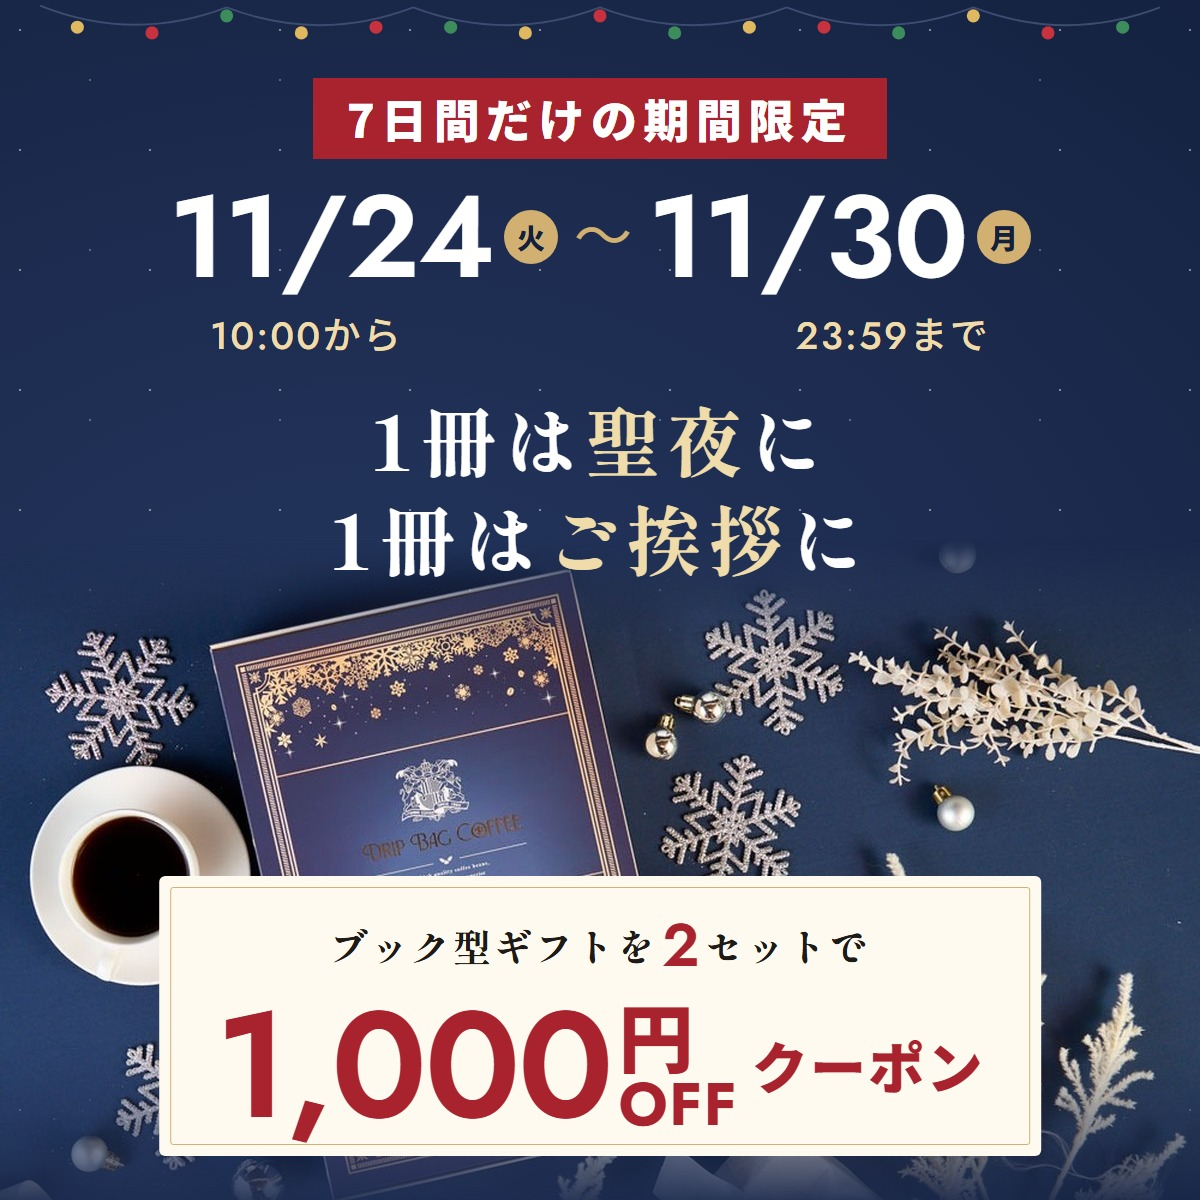
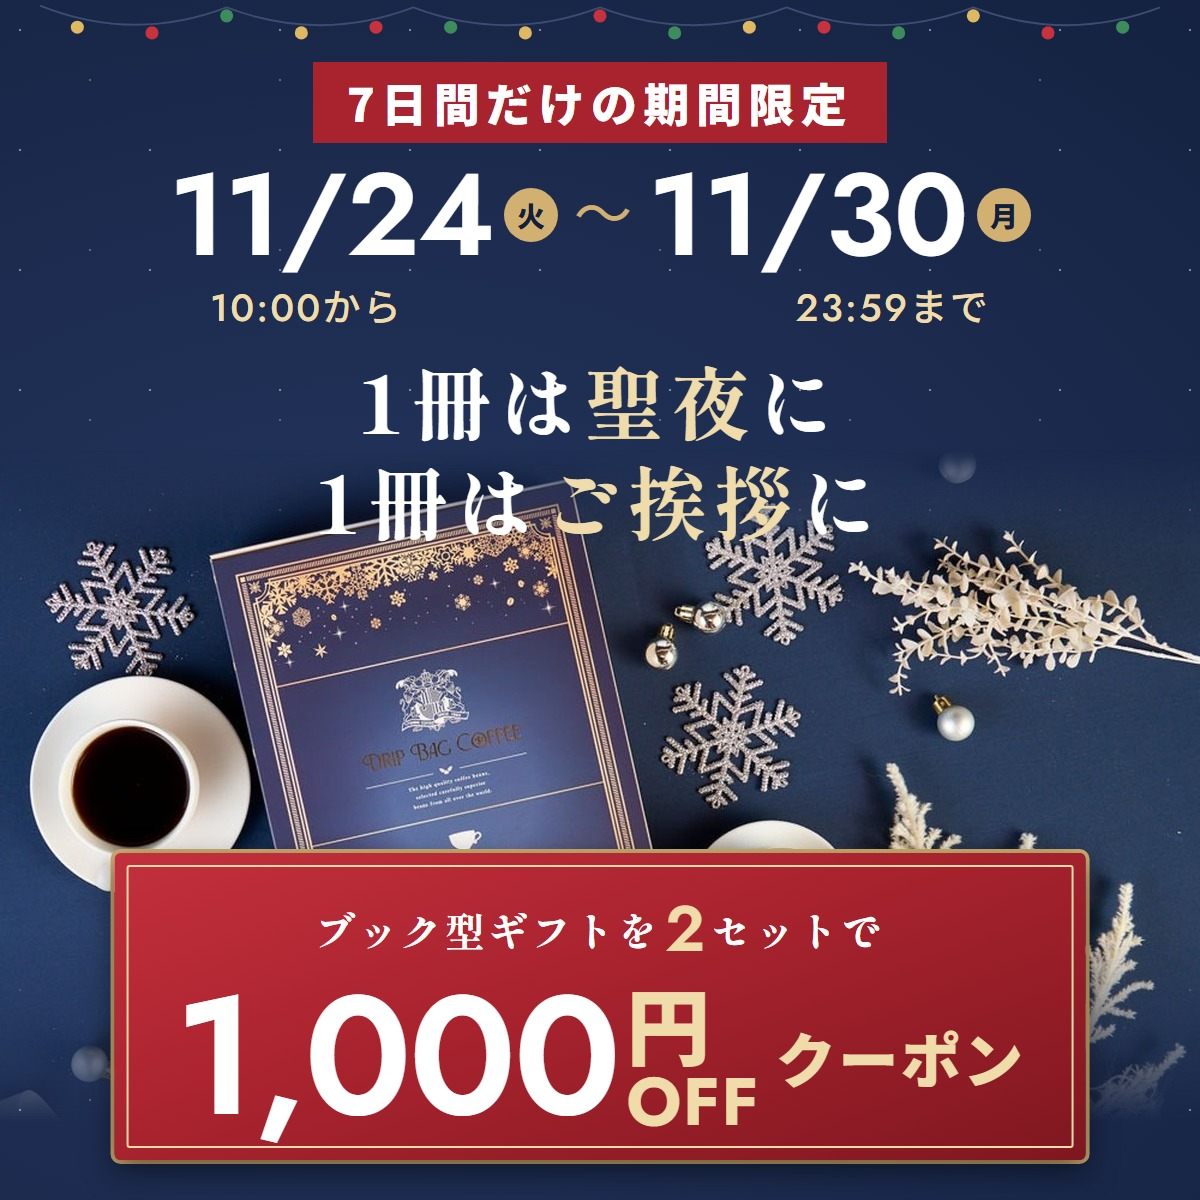
fix: 正方形バナーのキャッチを上に詰め、クーポン札を赤で目立たせる

diff --git a/banner/banner.html b/banner/banner.html
@@ -86,23 +86,24 @@ i{font-style:normal}
 
 /* ===== 1200x1200 ===== */
 .s1200{width:1200px;height:1200px}
-.s1200 .photo{left:0;top:540px;width:1200px;height:672px;-webkit-mask:linear-gradient(transparent,#000 16%,#000 75%,transparent);mask:linear-gradient(transparent,#000 16%,#000 75%,transparent)}
+.s1200 .photo{left:0;top:450px;width:1200px;height:672px;-webkit-mask:linear-gradient(transparent,#000 14%,#000 72%,transparent);mask:linear-gradient(transparent,#000 14%,#000 72%,transparent)}
 .s1200 .lights{height:56px}
-.s1200 .col{position:absolute;left:0;right:0;top:78px;z-index:2;display:flex;flex-direction:column;align-items:center;text-align:center}
+.s1200 .col{position:absolute;left:0;right:0;top:62px;z-index:2;display:flex;flex-direction:column;align-items:center;text-align:center}
 .s1200 .lbl{font-size:46px;padding:6px 34px}
-.s1200 .date{margin-top:20px;gap:10px}
+.s1200 .date{margin-top:14px;gap:10px}
 .s1200 .date b{font-size:116px}
 .s1200 .date .w{width:54px;height:54px;font-size:28px}
 .s1200 .date .to{font-size:58px;margin:0 6px}
-.s1200 .times{display:flex;justify-content:space-between;width:860px;margin-top:10px;padding:0 40px}
+.s1200 .times{display:flex;justify-content:space-between;width:860px;margin-top:4px;padding:0 40px}
 .s1200 .times span{font-family:var(--num);font-weight:500;font-size:38px;color:var(--gold-l);letter-spacing:.06em}
-.s1200 .ttl{margin-top:26px;font-size:76px}
-.s1200 .tk{position:absolute;z-index:2;left:50%;bottom:44px;transform:translateX(-50%);padding:26px 56px 24px}
-.s1200 .tk::before{inset:11px}
-.s1200 .tk__pre{font-size:38px}.s1200 .tk__pre b{font-size:60px;margin:0 .06em;vertical-align:-.06em}
-.s1200 .tk__row{margin-top:8px}
-.s1200 .off{font-size:150px}
-.s1200 .tk__c{font-size:56px;margin-left:14px}
+.s1200 .ttl{margin-top:14px;font-size:80px;line-height:1.25}
+.s1200 .tk{position:absolute;z-index:2;left:50%;bottom:40px;transform:translateX(-50%);padding:30px 60px 28px;background:linear-gradient(160deg,#c3303d,#a8232e 45%,#7f1720);color:#fff;box-shadow:0 10px 30px #0008,0 0 0 4px var(--gold)}
+.s1200 .tk::before{inset:12px;border:2px solid var(--gold-l)}
+.s1200 .tk__pre{font-size:40px;color:#fff}.s1200 .tk__pre b{font-size:64px;margin:0 .06em;vertical-align:-.06em;color:var(--gold-l)}
+.s1200 .tk__row{margin-top:6px}
+.s1200 .off__u .y,.s1200 .off__u .o{color:var(--gold-l)}
+.s1200 .off{font-size:168px;color:#fff}
+.s1200 .tk__c{font-size:60px;margin-left:16px;color:var(--gold-l)}
 </style>
 </head>
 <body>
